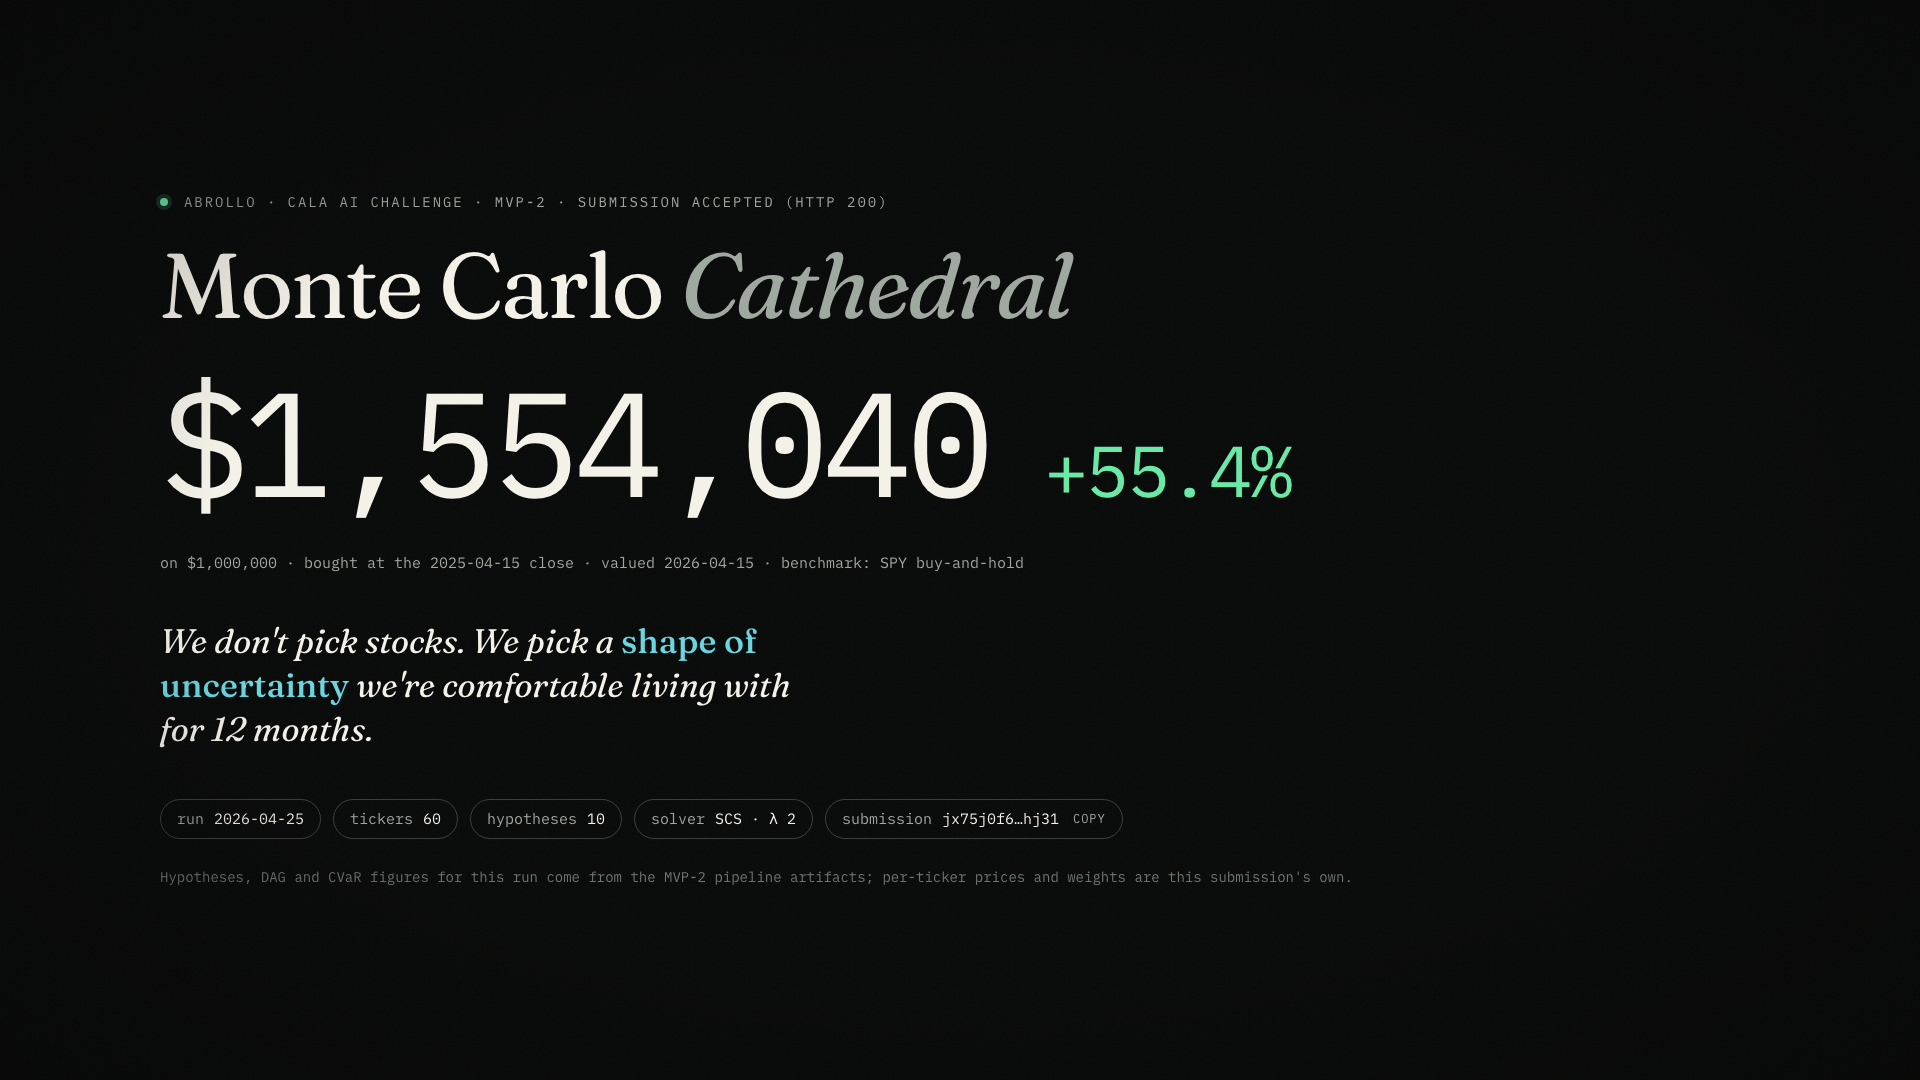
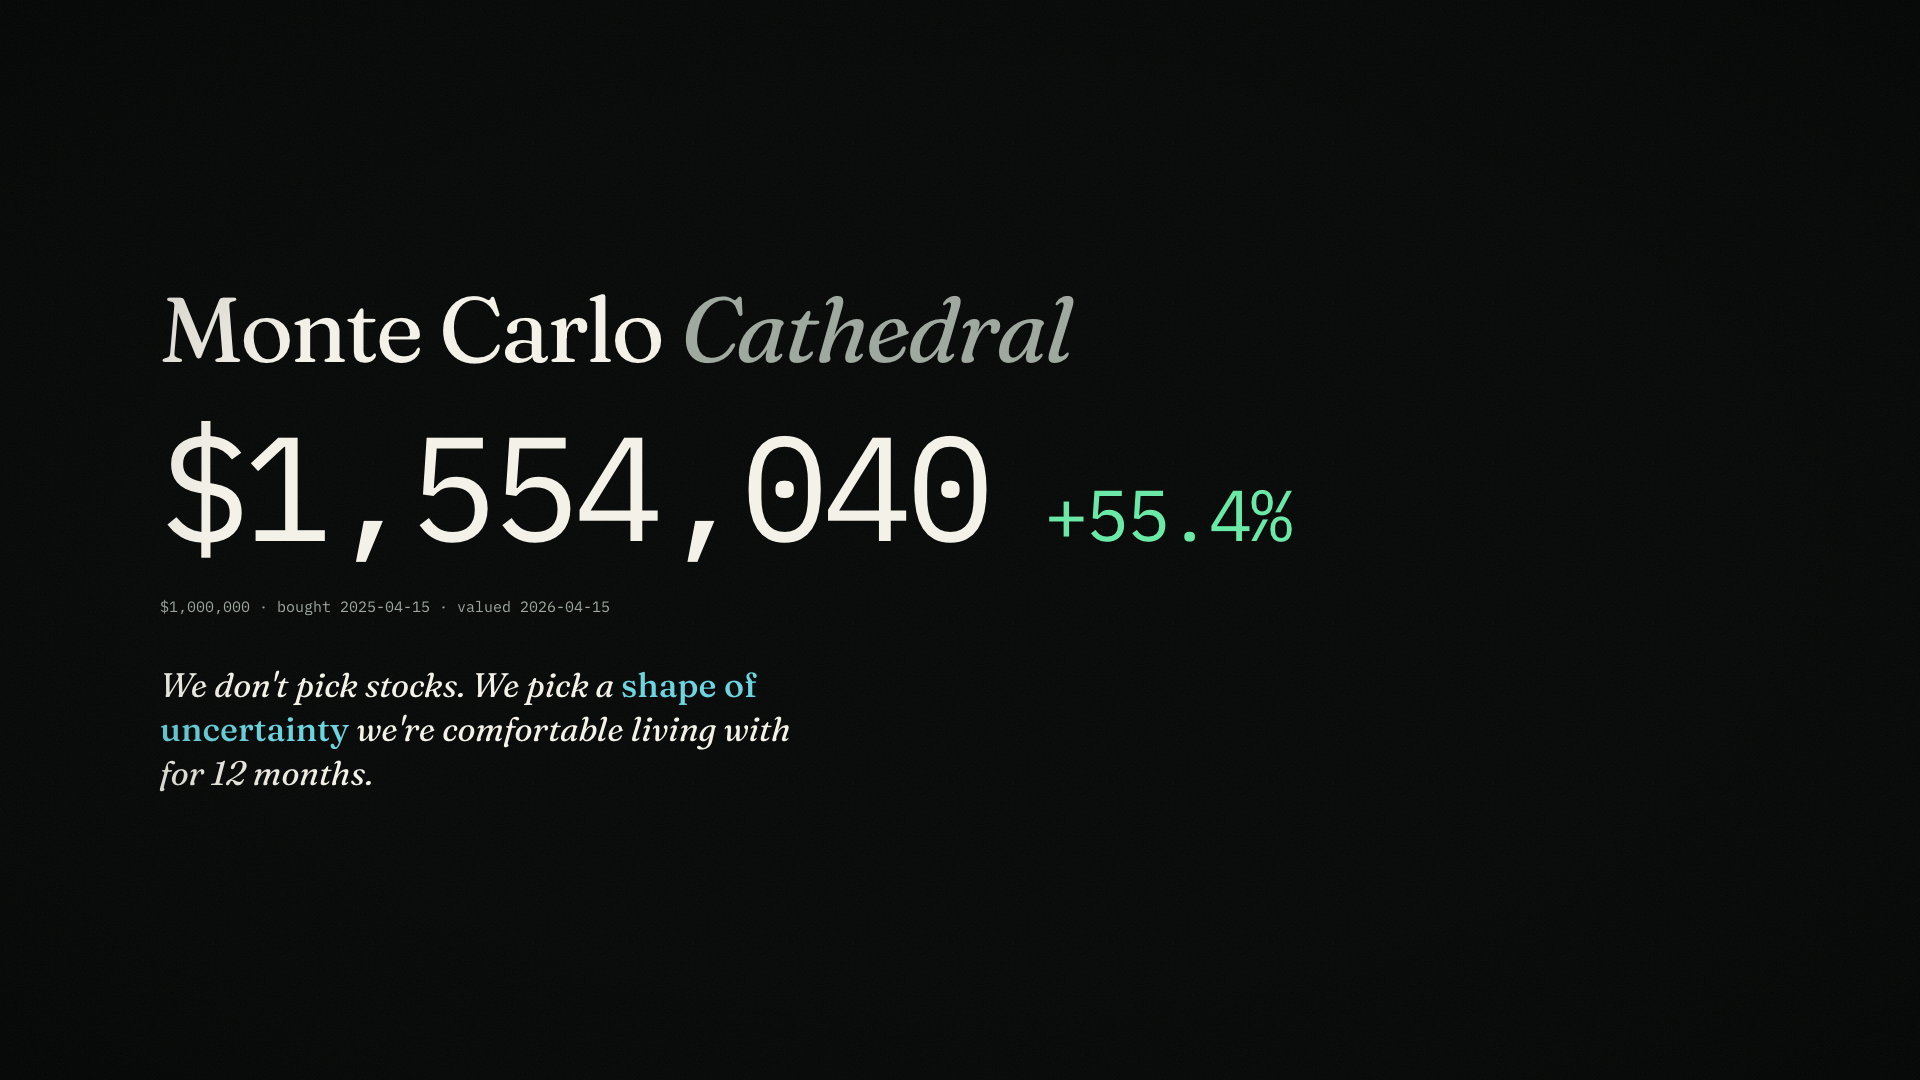
feat(web): clean hero for the CDL26 video, "LLMs" in the pipeline lede, add video script
Hero now shows only title, value/return, one context line and the thesis —
eyebrow, run/tickers/solver/submission chips and the provenance note are gone,
so the landing doubles as the first presentation slide. Refresh screenshots.

Claude-Session: https://claude.ai/code/session_01H8sVe8ZqRiH4KYXhRnRotC

diff --git a/web/src/sections/Hero/Hero.tsx b/web/src/sections/Hero/Hero.tsx
@@ -1,10 +1,10 @@
-import { useRef, useState } from 'react'
+import { useRef } from 'react'
 import styles from './Hero.module.css'
 import { useAppData } from '../../data/RunContext'
 import { useSectionTimeline } from '../../lib/useSectionTimeline'
 import { addCountUp } from '../../lib/useCountUp'
 import { SplitText } from '../../lib/gsap'
-import { fmtMoney, fmtPct, shortId } from '../../lib/format'
+import { fmtMoney, fmtPct } from '../../lib/format'
 
 export interface SectionProps {
   mode?: 'scroll' | 'stage'
@@ -16,7 +16,6 @@ export function Hero({ mode = 'scroll', playToken = 0 }: SectionProps) {
   const scope = useRef<HTMLElement>(null)
   const valueRef = useRef<HTMLSpanElement>(null)
   const retRef = useRef<HTMLSpanElement>(null)
-  const [copied, setCopied] = useState(false)
 
   useSectionTimeline(
     (tl) => {
@@ -25,37 +24,20 @@ export function Hero({ mode = 'scroll', playToken = 0 }: SectionProps) {
         const split = new SplitText(title, { type: 'chars,words' })
         tl.set(title, { autoAlpha: 1 }).from(split.chars, { yPercent: 60, autoAlpha: 0, stagger: 0.018, duration: 0.7, ease: 'power4.out' }, 0)
       }
-      tl.from('[data-eyebrow]', { autoAlpha: 0, y: 8, duration: 0.5 }, 0.1)
       tl.set('[data-value]', { autoAlpha: 1 }, 0.45)
       addCountUp(tl, valueRef.current, run.totalValue, fmtMoney, { duration: 1.7, position: 0.45 })
       tl.set('[data-ret]', { autoAlpha: 1 }, 1.05)
       addCountUp(tl, retRef.current, run.returnPct * 10, (v) => fmtPct(v / 10), { duration: 1.1, position: 1.05 })
       tl.from('[data-basis]', { autoAlpha: 0, y: 6, duration: 0.5 }, 1.3)
       tl.from('[data-thesis]', { autoAlpha: 0, y: 14, duration: 0.8 }, 1.5)
-      tl.from('[data-chip]', { autoAlpha: 0, y: 10, duration: 0.5, stagger: 0.07 }, 1.8)
-      tl.from('[data-prov]', { autoAlpha: 0, duration: 0.5 }, 2.2)
     },
     { scope, mode, playToken, deps: [run.id], start: 'top 80%' },
   )
-
-  const copy = async () => {
-    try {
-      await navigator.clipboard.writeText(run.submissionId)
-      setCopied(true)
-      setTimeout(() => setCopied(false), 1400)
-    } catch {
-      /* clipboard unavailable */
-    }
-  }
 
   const down = run.returnPct < 0
   return (
     <section id="hero" ref={scope} className={`${styles.hero} ${mode === 'stage' ? styles.stage : ''}`}>
       <div className={`container ${styles.inner}`}>
-        <div className={styles.eyebrowRow} data-eyebrow data-reveal>
-          <span className={styles.dot} />
-          <span className="eyebrow">Abrollo · Cala AI Challenge · {run.pipelineLabel} · Submission accepted (HTTP {run.httpStatus ?? 200})</span>
-        </div>
         <h1 className={styles.title} data-title data-reveal>
           Monte Carlo <em>Cathedral</em>
         </h1>
@@ -68,36 +50,11 @@ export function Hero({ mode = 'scroll', playToken = 0 }: SectionProps) {
           </span>
         </div>
         <p className={styles.basis} data-basis data-reveal>
-          on {fmtMoney(run.totalInvested)} · bought at the {meta.cutoffDate} close · valued 2026-04-15 · benchmark: SPY buy-and-hold
+          {fmtMoney(run.totalInvested)} · bought {meta.cutoffDate} · valued 2026-04-15
         </p>
         <p className={styles.thesis} data-thesis data-reveal>
           We don't pick stocks. We pick a <strong>shape of uncertainty</strong> we're comfortable living with for 12 months.
         </p>
-        <div className={styles.chips}>
-          <span className="chip" data-chip data-reveal>
-            <span className="k">run</span> {run.dateLabel}
-          </span>
-          <span className="chip" data-chip data-reveal>
-            <span className="k">tickers</span> {run.nTransactions}
-          </span>
-          <span className="chip" data-chip data-reveal>
-            <span className="k">hypotheses</span> {run.hypothesesCount}
-          </span>
-          <span className="chip" data-chip data-reveal>
-            <span className="k">solver</span> {run.portfolio.solver} · λ {run.portfolio.lambda ?? '—'}
-          </span>
-          <span className="chip" data-chip data-reveal title={run.submissionId}>
-            <span className="k">submission</span> {shortId(run.submissionId)}
-            <button className={styles.copyBtn} onClick={copy} aria-label="Copy submission id">
-              {copied ? 'copied' : 'copy'}
-            </button>
-          </span>
-        </div>
-        {run.artifactSource.kind === 'legacy' && (
-          <p className={styles.provenance} data-prov data-reveal>
-            Hypotheses, DAG and CVaR figures for this run come from the {run.pipelineLabel} pipeline artifacts; per-ticker prices and weights are this submission's own.
-          </p>
-        )}
       </div>
     </section>
   )

diff --git a/web/src/sections/Hero/Hero.module.css b/web/src/sections/Hero/Hero.module.css
@@ -12,19 +12,6 @@
 .inner {
   width: 100%;
 }
-.eyebrowRow {
-  display: flex;
-  align-items: center;
-  gap: 16px;
-  margin-bottom: 28px;
-}
-.dot {
-  width: 8px;
-  height: 8px;
-  border-radius: 50%;
-  background: var(--green);
-  box-shadow: 0 0 0 4px var(--green-dim);
-}
 .title {
   font-family: var(--font-display);
   font-weight: 400;
@@ -75,33 +62,12 @@
   line-height: 1.3;
   max-width: 30ch;
   color: var(--text);
-  margin-bottom: 48px;
+  margin-bottom: 0;
 }
 .thesis strong {
   font-style: normal;
   font-weight: 500;
   color: var(--cyan);
-}
-.chips {
-  display: flex;
-  flex-wrap: wrap;
-  gap: 12px;
-}
-.copyBtn {
-  margin-left: 4px;
-  color: var(--muted);
-  font-size: 12px;
-  letter-spacing: 0.08em;
-  text-transform: uppercase;
-}
-.copyBtn:hover {
-  color: var(--text);
-}
-.provenance {
-  margin-top: 28px;
-  font-size: var(--fs-xs);
-  font-family: var(--font-mono);
-  color: var(--muted-2);
 }
 
 @media (max-width: 1439px) {

diff --git a/web/src/sections/Pipeline/Pipeline.tsx b/web/src/sections/Pipeline/Pipeline.tsx
@@ -121,7 +121,7 @@ export function Pipeline({ mode = 'scroll', playToken = 0 }: SectionProps) {
             Pipeline <em>— let each tool do what it is good at</em>
           </h2>
           <p className="section-lede">
-            Language models read and cite. Graphs carry structure. Simulation enumerates futures. A convex solver chooses. No
+            LLMs read and cite. Graphs carry structure. Simulation enumerates futures. A convex solver chooses. No
             LLM ever picks a stock.
           </p>
         </div>

diff --git a/docs/cdl26/video-script.md b/docs/cdl26/video-script.md
@@ -1,0 +1,77 @@
+# CDL26 — guión del vídeo de 3 min (speaker preview, 9:16)
+
+**Formato.** Vertical, móvil a la altura de los ojos, los tres en el mismo sitio (una mesa, un pasillo) y os vais
+pasando el turno, no tres clips pegados. Subtítulos quemados (mucha gente lo verá sin sonido). Nadie lee: cada
+bloque es una idea, decidla con vuestras palabras si os sale mejor.
+
+**La app.** El CFP pide speaker preview, NO demo. La web app entra solo como cortes de 3–5 s (Presentation Mode
+recortado a vertical): la tarjeta de hipótesis con la fecha en verde, y el grafo propagando desde Vanguard. En total
+< 25 s de pantalla en todo el vídeo. Si dudáis, menos pantalla y más cara.
+
+**Duración.** ~450 palabras habladas = 3:00 justos a ritmo normal. Si os pasáis, cortad las frases marcadas ✂.
+
+---
+
+## [0:00–0:18] ALEX — gancho
+*(a cámara, sin "hola soy…", directo)*
+
+> Last April the three of us were handed a million dollars. Virtual, sadly.
+> The brief: build an AI agent that builds a NASDAQ portfolio — and here's the catch — it gets evaluated one year
+> later, with prices the agent was never allowed to see.
+> I'm Alex, that's Nico, that's Carlos. We're team Abrollo.
+
+## [0:18–0:55] NICO — el problema
+> Here's what almost every team did — and honestly, what we'd have done on day one: throw a swarm of LLMs at the
+> stocks, let them argue, and have a "judge" model split the money.
+> Sounds smart. It's vibes with extra steps. ✂
+> Language models are bad judges of markets. They don't model correlations. And they will happily quote a news
+> article from after the cutoff without noticing.
+> So we asked a different question. Not "which stocks win?" — "which futures are plausible, and what survives most
+> of them?"
+
+## [0:55–1:45] CARLOS — lo que construimos
+> We split the job by what each tool is actually good at.
+> The LLMs only read. They query Cala — a verified entity graph: companies, people, regulators, every fact with a
+> source ID and a date — and they emit hypotheses. Not opinions. Structured claims: trigger, probability, magnitude,
+> citations.
+
+*(corte 4 s: tarjeta de hipótesis, badges de fecha pasando a verde)*
+
+> Then the graph takes over. Each hypothesis lands on an entity and propagates through its connections to the
+> companies it actually touches. One claim about Vanguard's fee war fans out to seventy-one tickers.
+> That's the part an LLM can't do in its head. ✂
+
+*(corte 5 s: propagación del grafo en el modo presentación)*
+
+> Then plain maths. Monte Carlo over the whole graph — five hundred simulated years — and a CVaR optimiser that
+> picks the portfolio that holds up in the ugly tail.
+
+## [1:45–2:15] ALEX — el grafo como firewall
+> And the bit I actually want to talk about in London: the graph is our firewall against lookahead.
+> Every hypothesis has to cite entities whose source dates are before April 15th, 2025. If it can't, it's rejected.
+> Mechanically. No honour system.
+> Every dollar in the final portfolio traces back: optimiser, scenario, edge, hypothesis, UUID, date. You can audit
+> it.
+
+## [2:15–2:40] NICO — resultado, con honestidad
+> Result: plus fifty-five percent on the million, against an S&P benchmark of [X]. *(← rellenar)*
+> Now — it's a hackathon. Virtual money, one window. We're not selling alpha.
+> What we're showing is a pattern: LLMs as readers, graphs as the reasoning substrate, maths as the judge.
+> And where it broke — because it did break — the priors are still LLM-generated. That's the honest weak spot, and
+> we'll show you what we did about it.
+
+## [2:40–3:00] CARLOS → ALEX → NICO — cierre
+*(los tres en plano)*
+
+> **CARLOS:** That's the talk. Edges track: enough graph to be useful, enough story to follow. We didn't pick
+> stocks —
+> **ALEX:** — we picked a shape of uncertainty we could live with for twelve months.
+> **NICO:** See you in London.
+
+---
+
+## Antes de grabar
+- [ ] Rellenar `[X]` con el retorno de SPY en la ventana 2025-04-15 → 2026-04-15 (y el puesto en el leaderboard si lo tenéis).
+- [ ] Capturar en vertical los dos cortes (`pnpm dev` → `P` → paso 3 y paso 4) o recortar los PNG de `pnpm screenshots`.
+- [ ] Una toma por bloque, no del tirón: se monta después y se nota menos el nervio.
+- [ ] Subir a YouTube (no listado) o Vimeo y comprobar el enlace en incógnito.
